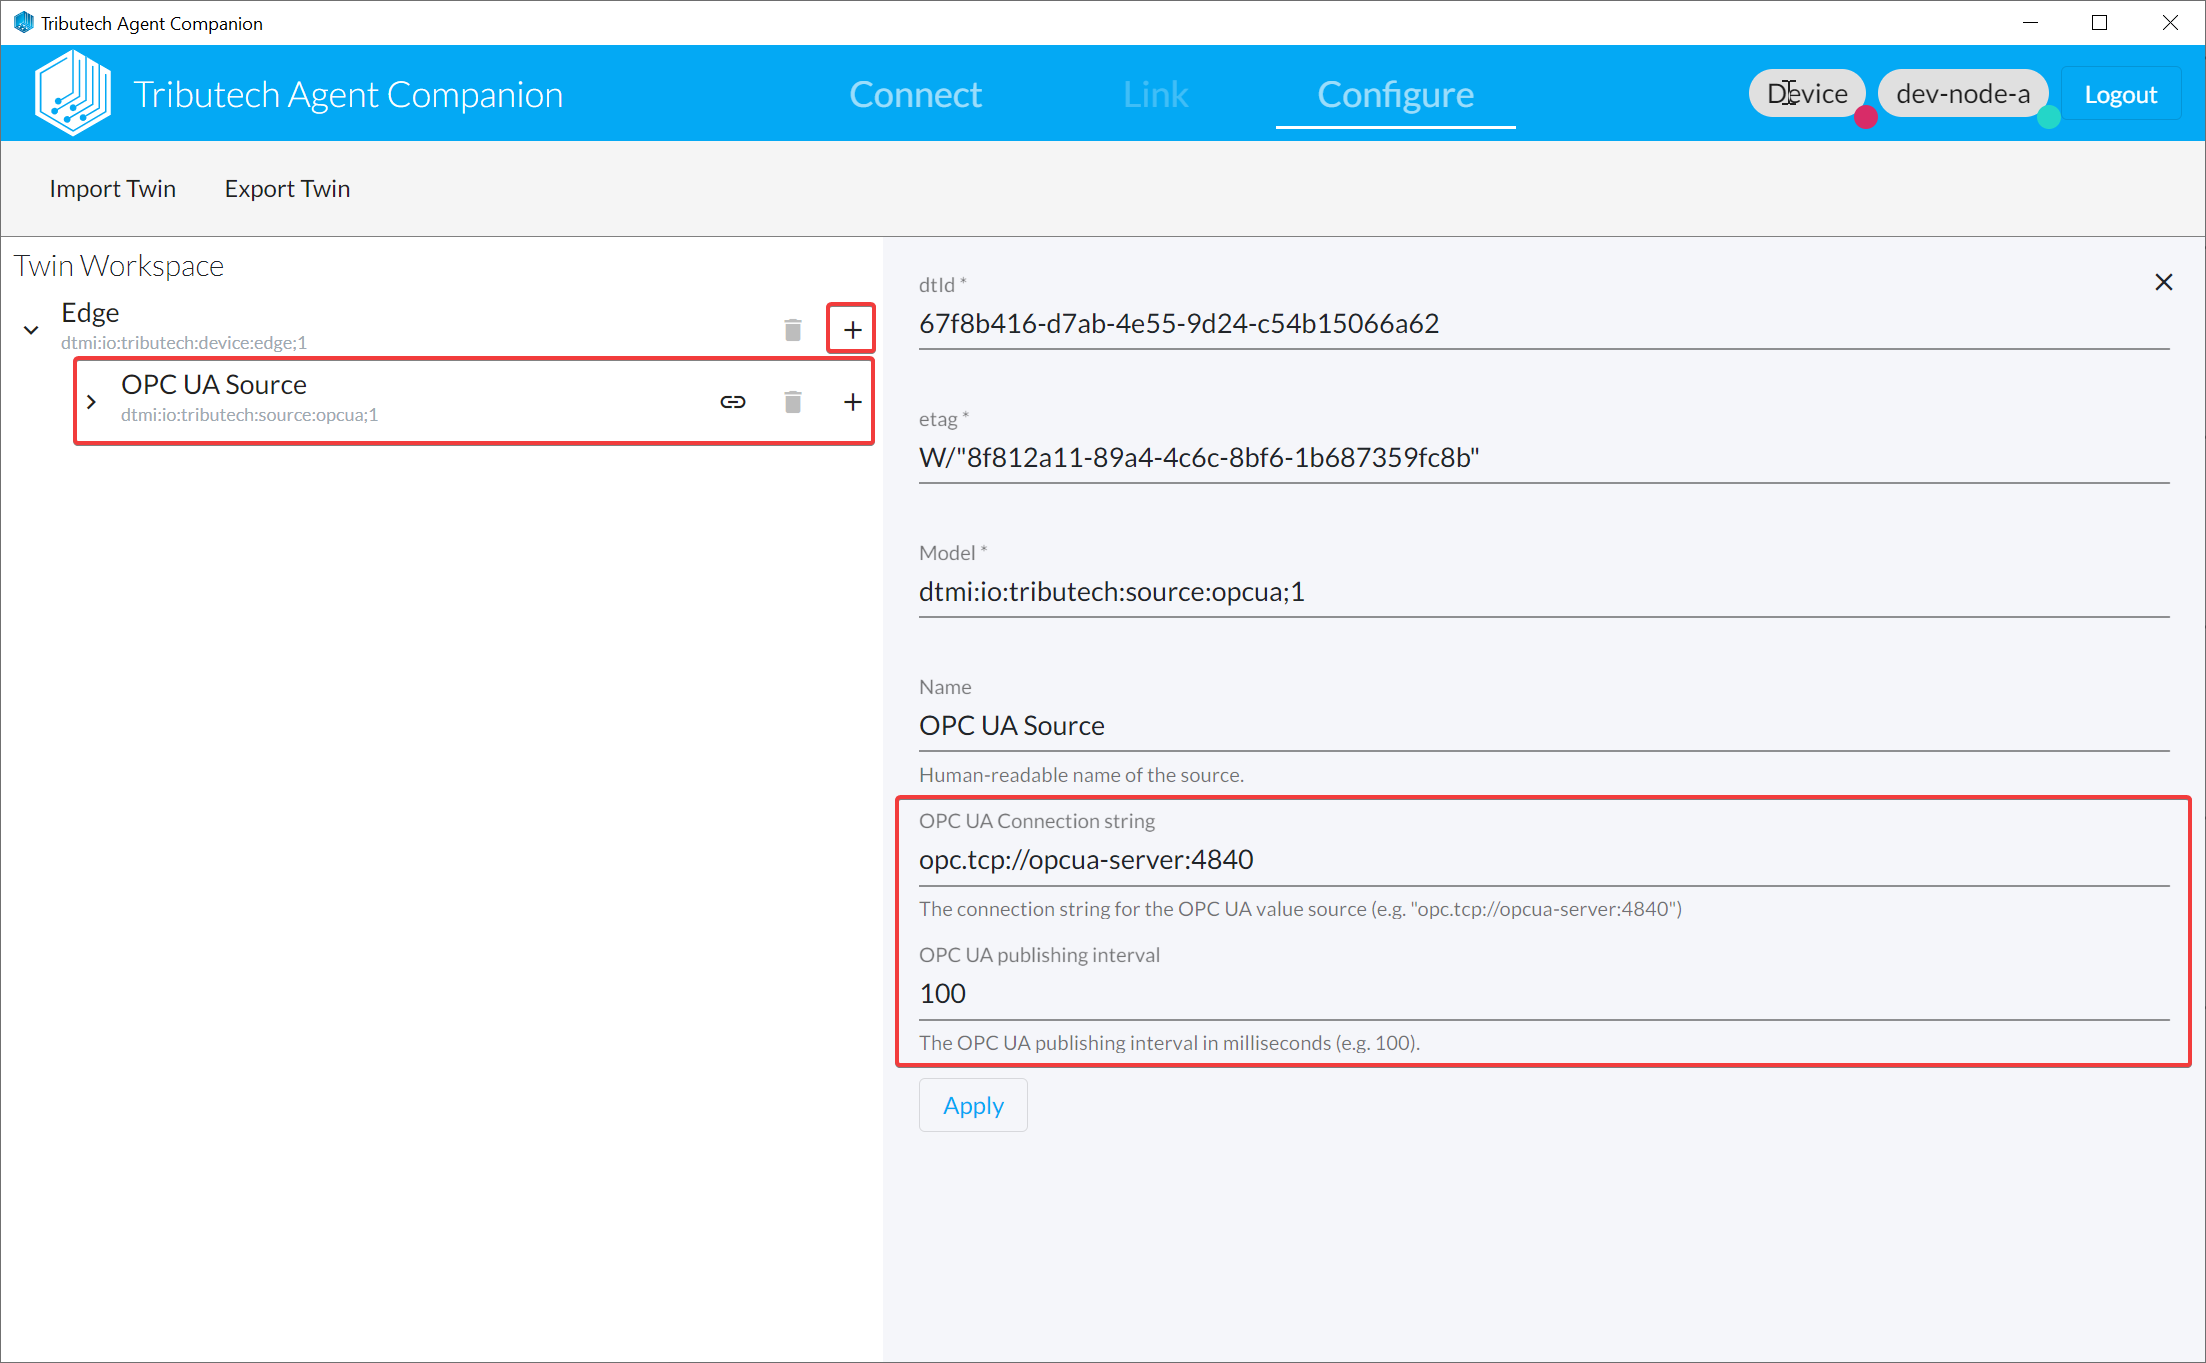
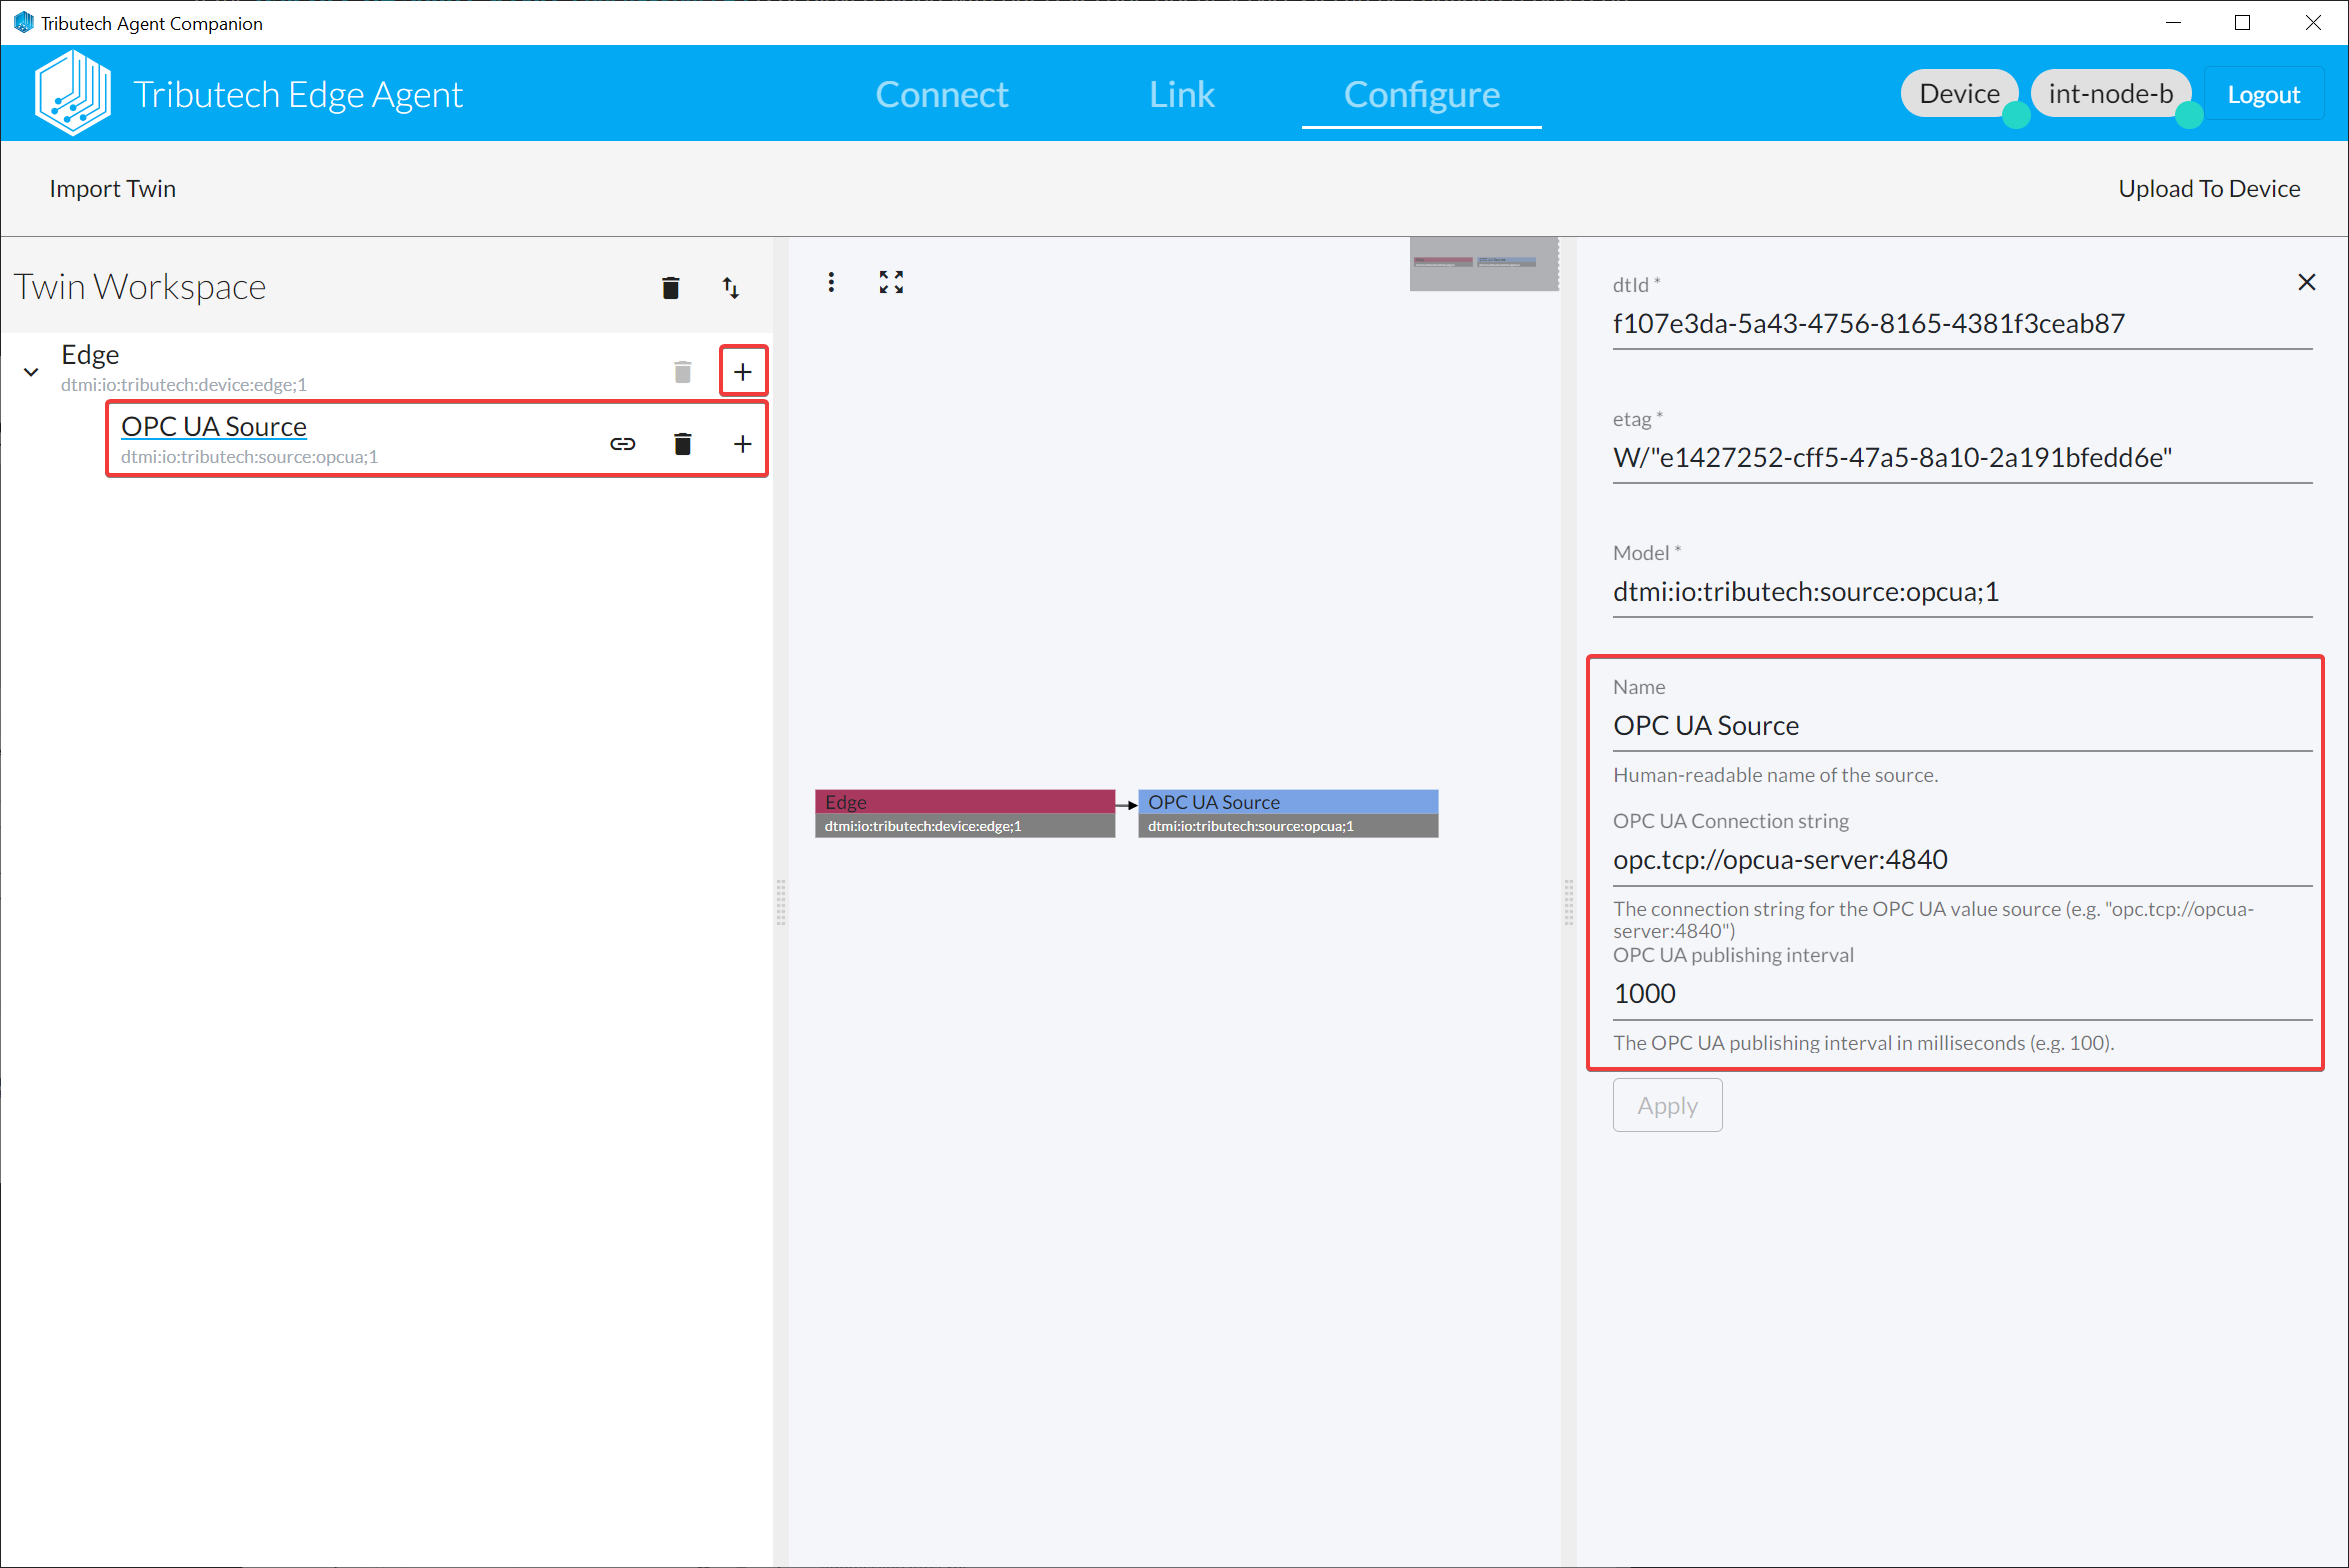
feat: opcua source doc (DSK-1841)
* use PublishingInterval 1000 as sample (experience from Findustrial)
* add verify step (also for simulated sensor)

diff --git a/docs/provide_data/iot/simulated.md b/docs/provide_data/iot/simulated.md
@@ -13,3 +13,5 @@ If the [**DSK Simulated Sensor/Source (`simulated-sensor`)**](../../setup/agent/
   Various parameters for the simulated stream can be adapted but important are the _Type_ which defines the actual generated value type and the _Frequency_ which the amount of generated data.
   ![Simulated Sensor/Source 2](./img/simulated-sensor-2.png)
 - Upload To Device
+- (Optional) [Verify configured streams in DataSpace-Admin](../../quickstart/setup-agent.mdx#verify-in-dataspace-admin) at Streams of Agent
+  ![Simulated Sensor/Source 3](./img/simulated-sensor-3.png)

diff --git a/docs/provide_data/iot/opc-ua.md b/docs/provide_data/iot/opc-ua.md
@@ -14,6 +14,9 @@ If the [**DSK OPC UA Source service (`opcua-source`)**](../../setup/agent/source
 - Full example (incl. persistence and publish options for the streams)
   ![OPC UA Source - AgentCompanion - Configure 3](./img/agent-companion-configure-opcua-3.png)
 - Upload To Device
+- (Optional) [Verify configured streams in DataSpace-Admin](../../quickstart/setup-agent.mdx#verify-in-dataspace-admin) at Streams of Agent
+  ![OPC UA Source - AgentCompanion - Configure 4](./img/agent-companion-configure-opcua-4.png)
+
 
 ## OPC UA debugging
 
